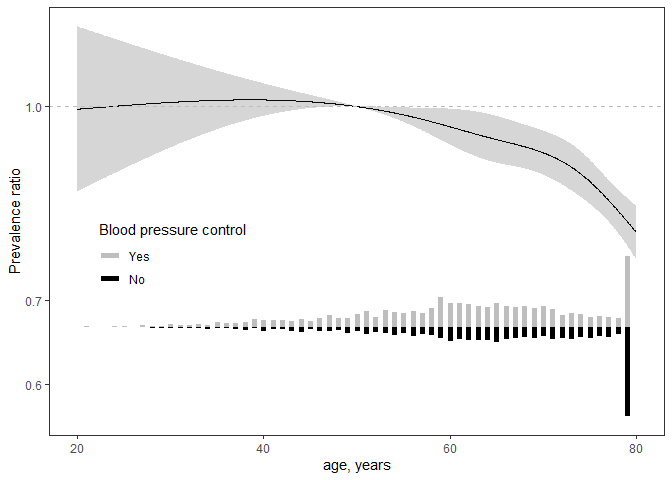
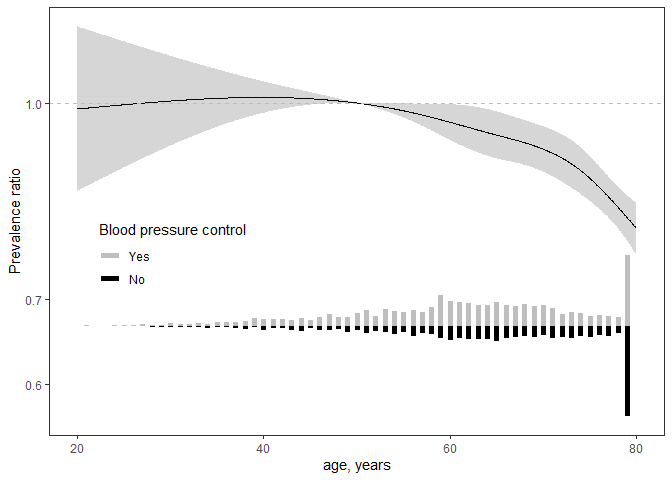
tidy readme

diff --git a/README.md b/README.md
@@ -3,10 +3,6 @@
 
 # spline-pr
 
-<!-- id: a0217837100 -->
-<!-- amanda: a0217837101 -->
-<!-- group: 3372 -->
-
 The goal of spline-pr is to fit poisson regression models with
 generalized estimating equations (i.e., robust variance estimators for
 prevalence ratios) that include spline terms. The code in this repo also
@@ -23,12 +19,15 @@ use. Also, since this is not a ‘survey’ tutorial, we do not engage with
 the NHANES survey weights.
 
 ``` r
+
 library(table.glue)
+#> Warning: package 'table.glue' was built under R version 4.0.5
 library(tidyverse)
 library(splines)
 library(geepack)
+#> Warning: package 'geepack' was built under R version 4.0.5
 library(mice)
-#> Warning: package 'mice' was built under R version 4.1.1
+#> Warning: package 'mice' was built under R version 4.0.3
 
 source("R/functions.R")
 
@@ -61,6 +60,7 @@ multiple imputation and pool our spline estimates from each imputed
 dataset.
 
 ``` r
+
 n_imputes <- 5
 
 data_nhanes_impute <- data_nhanes %>% 
@@ -87,7 +87,7 @@ data_nhanes_impute[[1]]
 #>  7    72        160         71.3
 #>  8    80        109.        53.3
 #>  9    43        140         82.7
-#> 10    65        139.        59.3
+#> 10    65        157.        98  
 #> # ... with 4,786 more rows
 ```
 
@@ -95,9 +95,10 @@ data_nhanes_impute[[1]]
 
 Let’s not forget that our outcome is dependent on the two blood pressure
 variables; i.e., blood pressure control is 1 if systolic blood pressure
-is &lt; 140 mm Hg and diastolic blood pressure is &lt; 90 mm Hg. .
+is \< 140 mm Hg and diastolic blood pressure is \< 90 mm Hg. .
 
 ``` r
+
 data_nhanes_impute <- data_nhanes_impute %>% 
  map(
   ~ .x %>% 
@@ -123,7 +124,7 @@ data_nhanes_impute[[1]]
 #>  7    72        160         71.3          0
 #>  8    80        109.        53.3          1
 #>  9    43        140         82.7          0
-#> 10    65        139.        59.3          1
+#> 10    65        157.        98            0
 #> # ... with 4,786 more rows
 ```
 
@@ -132,6 +133,7 @@ data_nhanes_impute[[1]]
 Next we fit a `geeglm` model to each imputed dataset. Note that
 
 ``` r
+
 fits <- map(
   .x = data_nhanes_impute,
   .f = ~ geeglm(bp_control ~ ns(age, df = 4), 
@@ -146,11 +148,11 @@ summary(fits[[1]])
 #> 
 #>  Coefficients:
 #>                  Estimate  Std.err    Wald Pr(>|W|)    
-#> (Intercept)       0.69718  0.06510 114.690   <2e-16 ***
-#> ns(age, df = 4)1 -0.04489  0.05971   0.565   0.4522    
-#> ns(age, df = 4)2 -0.09171  0.05572   2.709   0.0998 .  
-#> ns(age, df = 4)3 -0.14803  0.14701   1.014   0.3140    
-#> ns(age, df = 4)4 -0.25158  0.02652  90.018   <2e-16 ***
+#> (Intercept)       0.68503  0.06515 110.561   <2e-16 ***
+#> ns(age, df = 4)1 -0.04122  0.05985   0.474    0.491    
+#> ns(age, df = 4)2 -0.08869  0.05577   2.529    0.112    
+#> ns(age, df = 4)3 -0.11569  0.14698   0.619    0.431    
+#> ns(age, df = 4)4 -0.23617  0.02659  78.865   <2e-16 ***
 #> ---
 #> Signif. codes:  0 '***' 0.001 '**' 0.01 '*' 0.05 '.' 0.1 ' ' 1
 #> 
@@ -158,13 +160,14 @@ summary(fits[[1]])
 #> Estimated Scale Parameters:
 #> 
 #>             Estimate  Std.err
-#> (Intercept)   0.2268 0.002057
+#> (Intercept)    0.228 0.002007
 #> Number of clusters:   4796  Maximum cluster size: 1
 ```
 
 ## Spline pooling
 
 ``` r
+
 # determine a spline basis function
 # the terms used here must match those in geeglm()
 bases <- map(
@@ -210,24 +213,25 @@ spline_pool <- tibble(
 
 spline_pool
 #> # A tibble: 1,000 x 5
-#>        x     pred     se ci_lwr ci_upr
-#>    <dbl>    <dbl>  <dbl>  <dbl>  <dbl>
-#>  1  20   -0.00480 0.0773 -0.156  0.147
-#>  2  20.1 -0.00472 0.0770 -0.156  0.146
-#>  3  20.1 -0.00464 0.0768 -0.155  0.146
-#>  4  20.2 -0.00456 0.0766 -0.155  0.146
-#>  5  20.2 -0.00448 0.0764 -0.154  0.145
-#>  6  20.3 -0.00440 0.0762 -0.154  0.145
-#>  7  20.4 -0.00431 0.0760 -0.153  0.145
-#>  8  20.4 -0.00423 0.0757 -0.153  0.144
-#>  9  20.5 -0.00415 0.0755 -0.152  0.144
-#> 10  20.5 -0.00407 0.0753 -0.152  0.144
+#>        x    pred     se ci_lwr ci_upr
+#>    <dbl>   <dbl>  <dbl>  <dbl>  <dbl>
+#>  1  20   -0.0108 0.0761 -0.160  0.138
+#>  2  20.1 -0.0107 0.0759 -0.160  0.138
+#>  3  20.1 -0.0107 0.0757 -0.159  0.138
+#>  4  20.2 -0.0106 0.0755 -0.159  0.137
+#>  5  20.2 -0.0105 0.0753 -0.158  0.137
+#>  6  20.3 -0.0104 0.0751 -0.158  0.137
+#>  7  20.4 -0.0103 0.0749 -0.157  0.136
+#>  8  20.4 -0.0102 0.0746 -0.156  0.136
+#>  9  20.5 -0.0101 0.0744 -0.156  0.136
+#> 10  20.5 -0.0100 0.0742 -0.155  0.135
 #> # ... with 990 more rows
 ```
 
 ## Spline visualization
 
 ``` r
+
 data_imputed_stack <- bind_rows(data_nhanes_impute)
 
 data_segment <- bin_segments(x = data_imputed_stack$age,
